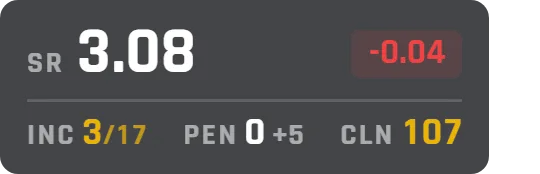
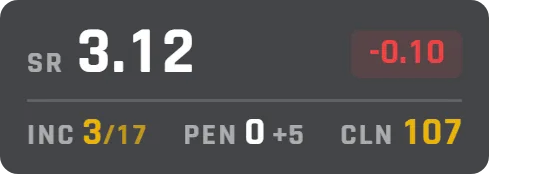
feat(incident-hud): official SR stays put, the chip shows the event's change
The big number is iRacing's own rating, unchanged through an event; the chip
  shows the estimated change over the whole event (qualifying carried into the
  race), or the projected rating. The projection to the flag is gone: the
  session clock runs on through the cool-down and it counted laps never driven.

Changed region(s): [[0.237, 0.1724, 0.3556, 0.431], [0.7407, 0.2299, 0.8296, 0.3736], [0.2963, 0.4023, 0.3556, 0.431]]

diff --git a/src/widgets/incident-hud/incident-hud.store.ts b/src/widgets/incident-hud/incident-hud.store.ts
@@ -11,8 +11,11 @@ import type { WidgetInstanceContext } from '@entities/widget/widget-instances.st
 import type { LiveWidgetsView } from '@entities/layout/live-widgets.store';
 import type { PlayerStore } from '@entities/player/player.store';
 import type { SessionStore } from '@entities/session/session.store';
-import { roundCornersUp } from './incident-hud-utils';
+import { formatSr, formatSrDelta, roundCornersUp } from './incident-hud-utils';
 import type { IncidentHudWidgetSettings } from './settings-schema';
+
+/** `LicSubLevel` is the rating × 100. */
+const SUB_LEVEL_SCALE = 100;
 
 interface IncidentHudDeps {
   liveWidgets: LiveWidgetsView;
@@ -112,38 +115,67 @@ export class IncidentHudWidgetStore {
     );
   }
 
-  get srStart(): number | null {
-    return this.frame?.srStart ?? null;
+  /**
+   * The player's rating as iRacing states it (`LicSubLevel`). iRacing rewrites
+   * it only once an event is over, so through practice, qualifying and the
+   * race it is the rating the whole event started from — the big number,
+   * which holds still while the chip moves.
+   */
+  get srOfficial(): number | null {
+    const sessionInfo = this.root.session.sessionInfo;
+    const player = sessionInfo?.cars.find(
+      (car) => car.carIdx === sessionInfo.playerCarIdx
+    );
+    const subLevel = player?.licSubLevel ?? null;
+
+    // Before the roster carries the licence, the backend's own start value.
+    if (subLevel === null) {
+      return this.frame?.srStart ?? null;
+    }
+
+    return subLevel / SUB_LEVEL_SCALE;
   }
 
   /**
-   * The rating shown: at the flag or at the car, as the instance is set. An
-   * unrated session shows where it started, since it changes nothing.
+   * Where the rating stands after everything driven in the event so far: the
+   * backend carries each session's outcome into the next, so in the race this
+   * already holds the qualifying. An unrated session changes nothing.
    */
-  get srShown(): number | null {
-    const frame = this.frame;
-
-    if (!frame || !this.isRated) {
-      return this.srStart;
+  get srProjected(): number | null {
+    if (!this.isRated) {
+      return this.srOfficial;
     }
 
-    if (this.settings.projectionMode === 'finish') {
-      return frame.srFinish ?? frame.srNow;
-    }
-
-    return frame.srNow;
+    return this.frame?.srNow ?? null;
   }
 
-  /** The estimated change this session; `null` when unrated or unknown. */
+  /**
+   * The change over the whole event so far — qualifying and race together, the
+   * figure the site shows once the event is over; `null` when unrated.
+   */
   get srDelta(): number | null {
-    const shown = this.srShown;
-    const start = this.srStart;
+    const projected = this.srProjected;
+    const official = this.srOfficial;
 
-    if (!this.isRated || shown === null || start === null) {
+    if (!this.isRated || projected === null || official === null) {
       return null;
     }
 
-    return shown - start;
+    return projected - official;
+  }
+
+  /**
+   * The chip beside the rating, for a rated session: the change so far, or —
+   * as the instance is set — the rating that change leads to.
+   */
+  get chipText(): string {
+    if (this.settings.srChipMode === 'projected') {
+      return formatSr(this.srProjected);
+    }
+
+    const delta = this.srDelta;
+
+    return delta === null ? formatSr(null) : formatSrDelta(delta);
   }
 
   get cleanCornersNeeded(): number | null {

diff --git a/src/widgets/incident-hud/SafetyRatingCell.tsx b/src/widgets/incident-hud/SafetyRatingCell.tsx
@@ -4,7 +4,6 @@ import { FixedDigits } from '@shared/ui/FixedDigits/FixedDigits';
 import {
   deltaDirection,
   formatSr,
-  formatSrDelta,
   type DeltaDirection,
 } from './incident-hud-utils';
 import { useIncidentHudStore } from './incident-hud-context';
@@ -20,29 +19,26 @@ const DELTA_CLASS: Record<DeltaDirection, string> = {
 const UNRATED_LABEL = 'OFF';
 
 /**
- * The upper tier: the Safety Rating estimate and its change since the session
- * started. Every figure is an estimate — iRacing publishes no formula.
+ * The upper tier: the rating as iRacing states it, which holds still through
+ * the event, and a chip with what the event has done to it so far. The chip is
+ * an estimate — iRacing publishes no formula.
  */
 export const SafetyRatingCell = observer(() => {
   const store = useIncidentHudStore();
-  const delta = store.srDelta;
-  const deltaClass = DELTA_CLASS[deltaDirection(delta)];
+  const deltaClass = DELTA_CLASS[deltaDirection(store.srDelta)];
 
   return (
     <div className={styles.row}>
       <div className={styles.rating}>
         <span className={styles.label}>SR</span>
-        <FixedDigits className={styles.value} text={formatSr(store.srShown)} />
+        <FixedDigits
+          className={styles.value}
+          text={formatSr(store.srOfficial)}
+        />
       </div>
 
       <div className={`${styles.delta} ${deltaClass}`}>
-        {store.isRated ? (
-          <FixedDigits
-            text={delta === null ? formatSr(null) : formatSrDelta(delta)}
-          />
-        ) : (
-          UNRATED_LABEL
-        )}
+        {store.isRated ? <FixedDigits text={store.chipText} /> : UNRATED_LABEL}
       </div>
     </div>
   );

diff --git a/src/features/preview/scenarios.ts b/src/features/preview/scenarios.ts
@@ -727,7 +727,6 @@ const WIDGET_SCENARIOS: PreviewScenario[] = [
         driverIncidents: 3,
         srStart: 3.12,
         srNow: 3.02,
-        srFinish: 3.08,
         cleanCornersNeeded: 106.4,
       });
     },
@@ -742,7 +741,6 @@ const WIDGET_SCENARIOS: PreviewScenario[] = [
         driverIncidents: 11,
         srStart: 2.75,
         srNow: 2.48,
-        srFinish: 2.56,
         cleanCornersNeeded: 182.6,
       });
     },
@@ -756,7 +754,6 @@ const WIDGET_SCENARIOS: PreviewScenario[] = [
         driverIncidents: 17,
         srStart: 2.75,
         srNow: 2.31,
-        srFinish: 2.31,
         cleanCornersNeeded: 341.2,
       });
     },
@@ -772,7 +769,6 @@ const WIDGET_SCENARIOS: PreviewScenario[] = [
         driverIncidents: 4,
         isRanked: false,
         srNow: 2.75,
-        srFinish: 2.75,
         cleanCornersNeeded: null,
       });
     },

diff --git a/src/shared/contracts/bindings.ts b/src/shared/contracts/bindings.ts
@@ -2079,14 +2079,12 @@ export type SafetyRatingFrame = {
    */
   srStart: number | null;
   /**
-   * The estimate for the corners and incidents so far.
+   * The estimate for the corners and incidents so far — with the earlier
+   * sessions of the event carried in. No projection to the flag: the time
+   * left keeps running through the cool-down, and a guess at the distance
+   * to go would be counted as clean corners never driven.
    */
   srNow: number | null;
-  /**
-   * The estimate at the flag, with the corners left driven clean; `None`
-   * when the distance left cannot be estimated.
-   */
-  srFinish: number | null;
   /**
    * Clean corners still needed for the session to come out level or better;
    * `None` without a rating or in a session that does not move it.

diff --git a/src/widgets/incident-hud/settings-schema.ts b/src/widgets/incident-hud/settings-schema.ts
@@ -15,8 +15,8 @@ export const INCIDENT_HUD_SETTINGS = defineSettings('incidentHud', {
   showPenalties: bool(true),
   /** Clean corners still needed for the session to come out level. */
   showCleanCorners: bool(true),
-  /** `finish` counts the corners left as driven clean; `current` stops at the car. */
-  projectionMode: choice(['finish', 'current'], 'finish'),
+  /** What the chip beside the rating shows: the change so far, or the rating it leads to. */
+  srChipMode: choice(['delta', 'projected'], 'delta'),
 });
 
 export type IncidentHudWidgetSettings = SettingsOf<

diff --git a/src/widgets/incident-hud/IncidentHudSettingsPanel.tsx b/src/widgets/incident-hud/IncidentHudSettingsPanel.tsx
@@ -16,7 +16,7 @@ export const IncidentHudSettingsPanel = observer(() => {
   return (
     <Card title={t('settingsPanels.incidentHud.moduleParameters')}>
       <Row setting="showProjectedSr" />
-      <Row setting="projectionMode" dependsOn="showProjectedSr" />
+      <Row setting="srChipMode" dependsOn="showProjectedSr" />
       <Row setting="showPenalties" />
       <Row setting="showCleanCorners" />
     </Card>

diff --git a/src/widgets/incident-hud/IncidentHudWidget.stories.tsx b/src/widgets/incident-hud/IncidentHudWidget.stories.tsx
@@ -43,7 +43,6 @@ const meta: Meta<StoryArgs> = {
             driverIncidents: 2,
             srStart: null,
             srNow: null,
-            srFinish: null,
             cleanCornersNeeded: null,
           })
         );

diff --git a/src/features/preview/mocks/safety-rating.ts b/src/features/preview/mocks/safety-rating.ts
@@ -20,7 +20,6 @@ export const mockSafetyRating = (
   isRanked: null,
   srStart: 2.75,
   srNow: 2.84,
-  srFinish: 2.96,
   cleanCornersNeeded: 0,
   ...overrides,
 });

diff --git a/src-tauri/src/computations/safety_rating.rs b/src-tauri/src/computations/safety_rating.rs
@@ -33,7 +33,6 @@ use serde::{Deserialize, Serialize};
 use tracing::info;
 
 use crate::capabilities::Capabilities;
-use crate::computations::fuel::laps_to_finish;
 use crate::computations::{
     ComputeContext, ComputedOutput, Processor, ProcessorCommand, ProcessorId, TickRate,
 };
@@ -103,11 +102,11 @@ pub struct SafetyRatingFrame {
     pub is_ranked: Option<bool>,
     /// The rating the session started from; `None` until the sim sends it.
     pub sr_start: Option<f32>,
-    /// The estimate for the corners and incidents so far.
+    /// The estimate for the corners and incidents so far — with the earlier
+    /// sessions of the event carried in. No projection to the flag: the time
+    /// left keeps running through the cool-down, and a guess at the distance
+    /// to go would be counted as clean corners never driven.
     pub sr_now: Option<f32>,
-    /// The estimate at the flag, with the corners left driven clean; `None`
-    /// when the distance left cannot be estimated.
-    pub sr_finish: Option<f32>,
     /// Clean corners still needed for the session to come out level or better;
     /// `None` without a rating or in a session that does not move it.
     pub clean_corners_needed: Option<f32>,
@@ -260,13 +259,8 @@ fn update_cpi(cpi_old: f64, corners: f64, incidents: f64, licence: Licence) -> f
 }
 
 /// The rating after a session of weighted `corners` and `incidents`, started
-/// at `sr_before` in `licence`.
-pub fn project_sr(sr_before: f64, licence: Licence, corners: f64, incidents: f64) -> f64 {
-    project(sr_before, licence, corners, incidents).0
-}
-
-/// [`project_sr`] with the licence the rating ends in: a session that crosses
-/// a whole number leaves the next one starting in the neighbouring band.
+/// at `sr_before` in `licence`, and the licence it ends in: a session that
+/// crosses a whole number leaves the next one starting in the neighbouring band.
 fn project(sr_before: f64, licence: Licence, corners: f64, incidents: f64) -> (f64, Licence) {
     let cpi_old = cpi_from_sr(sr_before, licence);
     let cpi = update_cpi(cpi_old, corners, incidents, licence);
@@ -613,26 +607,6 @@ impl SafetyRatingProcessor {
             });
         }
 
-        let (laps_left, _) = laps_to_finish(
-            ctx.lap_timing,
-            session,
-            ctx.session_num,
-            ctx.session_time_remain,
-        );
-        let corners_left = laps_left
-            .zip(corners_per_lap)
-            .map(|(laps, per_lap)| f64::from(laps.max(0.0)) * per_lap);
-        let sr_finish = rated
-            .zip(corners_left)
-            .map(|((sr, licence), corners_left)| {
-                project_sr(
-                    sr,
-                    licence,
-                    (corners + corners_left) * weighting,
-                    incidents * weighting,
-                )
-            });
-
         let clean_corners = rated.filter(|_| weight > 0.0).map(|(sr, licence)| {
             clean_corners_needed(incidents, corners, cpi_from_sr(sr, licence))
         });
@@ -645,7 +619,6 @@ impl SafetyRatingProcessor {
             is_ranked: session.league_id.map(|_| false),
             sr_start: start_rating.map(|(sr, _)| sr as f32),
             sr_now: sr_now.map(|sr| sr as f32),
-            sr_finish: sr_finish.map(|sr| sr as f32),
             clean_corners_needed: clean_corners.map(|needed| needed as f32),
         }
     }
@@ -988,7 +961,7 @@ mod tests {
             // The vectors take the band from the rating, as a reader of
             // `LicString` would.
             let start = licence(case.class_index, case.sr_before.floor() as i32);
-            let projected = project_sr(case.sr_before, start, case.corners, case.incident_points);
+            let (projected, _) = project(case.sr_before, start, case.corners, case.incident_points);
             let cpi = update_cpi(
                 cpi_from_sr(case.sr_before, start),
                 case.corners,
@@ -1358,17 +1331,14 @@ mod tests {
     }
 
     #[test]
-    fn a_clean_race_projects_a_gain_at_the_flag() {
+    fn clean_corners_raise_the_estimate() {
         let session = race_session(false);
         let mut processor = SafetyRatingProcessor::default();
 
         step(&mut processor, &session, race_tick(0.10, 0));
         let frame = step(&mut processor, &session, race_tick(0.15, 0));
 
-        let now = frame.sr_now.expect("rated");
-        let finish = frame.sr_finish.expect("a lap race has a distance left");
-
-        assert!(finish > now, "{finish} should exceed {now}");
+        assert!(frame.sr_now.expect("rated") > 2.75);
         assert_eq!(frame.clean_corners_needed, Some(0.0));
     }
 
@@ -1394,7 +1364,6 @@ mod tests {
 
         assert_eq!(frame.sr_start, None);
         assert_eq!(frame.sr_now, None);
-        assert_eq!(frame.sr_finish, None);
         assert_eq!(frame.clean_corners_needed, None);
     }
 

diff --git a/src-tauri/src/computations/fuel.rs b/src-tauri/src/computations/fuel.rs
@@ -444,7 +444,7 @@ pub fn refuel_plan(
 /// session runs on the clock rather than on a lap count. A timed session is
 /// estimated from the time left and the best lap (the last one until there is
 /// a best); `None` while neither lap time exists.
-pub fn laps_to_finish(
+fn laps_to_finish(
     lap_timing: &LapTimingFrame,
     session: &SessionSnapshot,
     session_num: Option<i32>,

diff --git a/src-tauri/src/telemetry/quantize.rs b/src-tauri/src/telemetry/quantize.rs
@@ -135,7 +135,6 @@ pub fn safety_rating(frame: &mut SafetyRatingFrame) {
 
     round_rating(&mut frame.sr_start);
     round_rating(&mut frame.sr_now);
-    round_rating(&mut frame.sr_finish);
     frame.corners_driven = round(frame.corners_driven, CORNERS_DP);
     frame.clean_corners_needed = frame
         .clean_corners_needed
